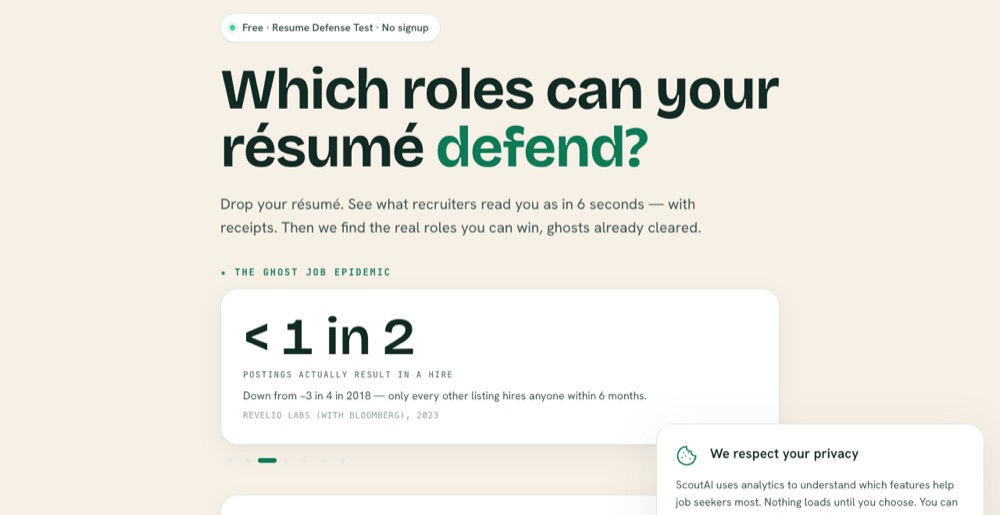
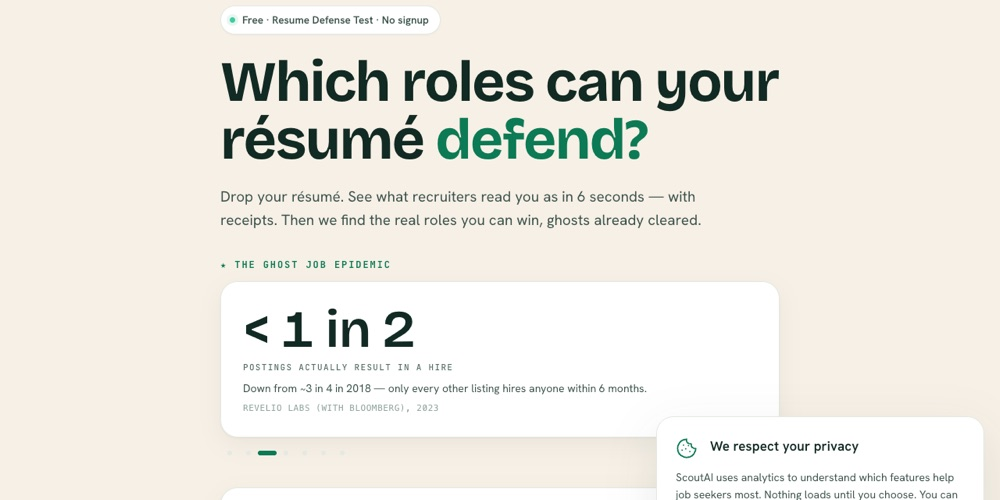
Fix clinic caption, tag width, recrop ScoutAI shot

diff --git a/index.html b/index.html
@@ -131,7 +131,7 @@
         <figure><img src="assets/img/work-2.jpg" alt="ScoutAI job-search platform homepage" loading="lazy" width="1000" height="515"><figcaption><b>ScoutAI</b><span>AI job-search platform with paying subscribers. Designed, built, and run by me.</span></figcaption></figure>
       </a>
       <a href="https://sonnysteele23.github.io/cprt-demo/" target="_blank" rel="noopener">
-        <figure><img src="assets/img/work-3.jpg" alt="Clinic website demo homepage" loading="lazy" width="1000" height="515"><figcaption><b>Clinic website (demo)</b><span>Concept build for a physical-therapy practice: services, booking, trust signals.</span></figcaption></figure>
+        <figure><img src="assets/img/work-3.jpg" alt="Clinic website demo homepage" loading="lazy" width="1000" height="515"><figcaption><b>Clinic website (demo)</b><span>Concept build for a regenerative-medicine clinic: services, booking, trust signals.</span></figcaption></figure>
       </a>
       <a href="https://sonnysteele23.github.io/uh-cafeteria-analytics/" target="_blank" rel="noopener">
         <figure><img src="assets/img/work-4.jpg" alt="Cafeteria operations analytics prototype" loading="lazy" width="1000" height="515"><figcaption><b>Cafeteria operations dashboard (prototype)</b><span>Analytics prototype for a university dining operation serving about 1,600 meals a day.</span></figcaption></figure>

diff --git a/assets/css/site.css b/assets/css/site.css
@@ -80,7 +80,7 @@ ul.ticks li::before{content:"";position:absolute;left:0;top:.42em;width:.9em;hei
 .card .price{margin:var(--sp-4) 0 var(--sp-2)}
 .card .fill{flex:1}
 .card--feature{border-color:var(--c-brand);box-shadow:0 0 0 3px var(--c-brand-tint),var(--sh-card)}
-.tag{display:inline-block;font-size:var(--fs-xs);font-weight:700;letter-spacing:var(--ls-label);text-transform:uppercase;color:var(--c-brand-deep);background:var(--c-brand-tint);border-radius:var(--r-pill);padding:4px 10px;margin-bottom:var(--sp-3)}
+.tag{display:inline-block;align-self:flex-start;font-size:var(--fs-xs);font-weight:700;letter-spacing:var(--ls-label);text-transform:uppercase;color:var(--c-brand-deep);background:var(--c-brand-tint);border-radius:var(--r-pill);padding:4px 10px;margin-bottom:var(--sp-3)}
 
 /* Work */
 .work{display:grid;gap:var(--sp-5);grid-template-columns:repeat(auto-fit,minmax(280px,1fr))}
